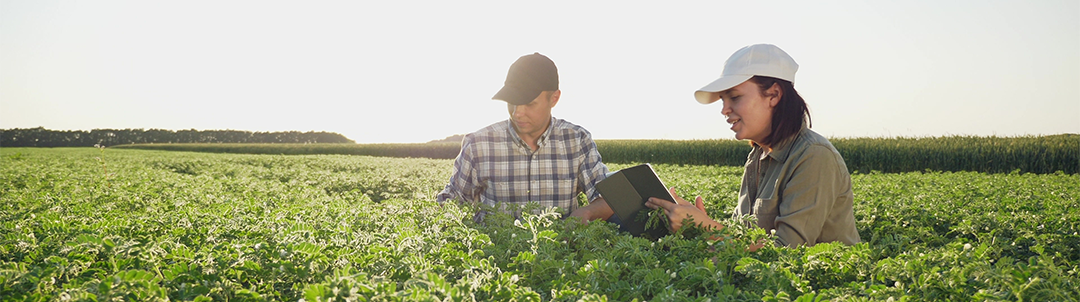
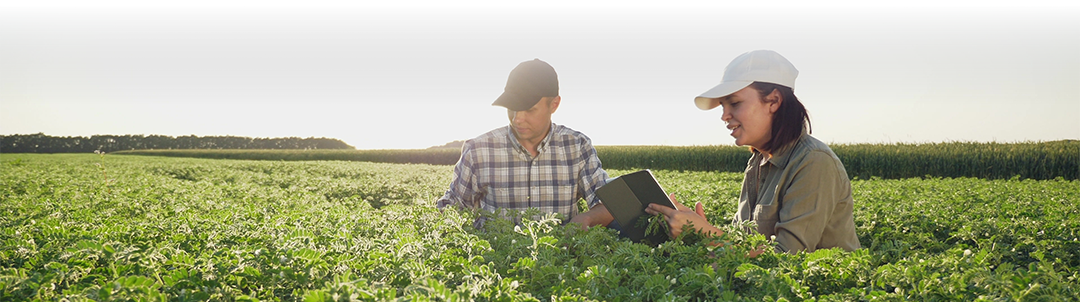
CIG-1731 508 issues resolved

diff --git a/src/containers/CustomSearchContainer/CustomSearch.tsx b/src/containers/CustomSearchContainer/CustomSearch.tsx
@@ -1,5 +1,5 @@
 import { useEffect, useState } from 'react';
-import  TagManager from 'react-gtm-module';
+import TagManager from 'react-gtm-module';
 import useBreakpoint from 'use-breakpoint';
 import { useTranslation } from 'react-i18next';
 import classNames from 'classnames';
@@ -29,7 +29,7 @@ import SearchByResourceConcern from '../../components/SearchByResourceConcern/Se
 import './custom-search.scss';
 import { currentState, initialState } from '../../Redux/Slice/stateSlice';
 
-const GTMArg = { gtmId: 'G-JXBFW848RQ' };  
+const GTMArg = { gtmId: 'G-JXBFW848RQ' };
 
 TagManager.initialize(GTMArg);
 
@@ -138,13 +138,13 @@ const CustomSearch = () => {
       dispatch(currentState(initialState));
     }
 
-    console.log(window.dataLayer);
-         window.dataLayer.push ( { 'js': new Date()});
-          window.dataLayer.push ( { event:'Search',
-              EventProps:{
-              SearchParameter: searchedInfo}
-              });
-          
+    window.dataLayer.push({ js: new Date() });
+    window.dataLayer.push({
+      event: 'Search',
+      EventProps: {
+        SearchParameter: searchedInfo,
+      },
+    });
   };
 
   const searchButtonStyles = () => {

diff --git a/src/components/QuickSearchBar/QuickSearchBar.tsx b/src/components/QuickSearchBar/QuickSearchBar.tsx
@@ -12,7 +12,7 @@ const QuickSearchBar = () => {
     history.push('search');
   };
 
-  const GTMArg = { gtmId: 'G-JXBFW848RQ' }; 
+  const GTMArg = { gtmId: 'G-JXBFW848RQ' };
   TagManager.initialize(GTMArg);
 
   return (
@@ -29,7 +29,15 @@ const QuickSearchBar = () => {
         </CustomButton>
       </div>
       <noscript>
-        <iframe title="ga4" src="https://www.googletagmanager.com/ns.html?id=G-JXBFW848RQ" height="0" width="0" style={ {display:'none',visibility:'hidden'}}> </iframe>
+        <iframe
+          title='ga4'
+          src='https://www.googletagmanager.com/ns.html?id=G-JXBFW848RQ'
+          height='0'
+          width='0'
+          style={{ display: 'none', visibility: 'hidden' }}
+        >
+          {' '}
+        </iframe>
       </noscript>
     </div>
   );

diff --git a/src/containers/Home/Home.tsx b/src/containers/Home/Home.tsx
@@ -20,7 +20,7 @@ const Home = () => {
     );
   };
 
-  const GTMArg = { gtmId: 'G-JXBFW848RQ'  };
+  const GTMArg = { gtmId: 'G-JXBFW848RQ' };
   TagManager.initialize(GTMArg);
 
   return (
@@ -33,7 +33,15 @@ const Home = () => {
       />
       {renderMainContent()}
       <noscript>
-        <iframe title="ga4" src="https://www.googletagmanager.com/ns.html?id=G-JXBFW848RQ" height="0" width="0" style={ {visibility:'hidden'}}> </iframe>
+        <iframe
+          title='ga4'
+          src='https://www.googletagmanager.com/ns.html?id=G-JXBFW848RQ'
+          height='0'
+          width='0'
+          style={{ visibility: 'hidden' }}
+        >
+          {' '}
+        </iframe>
       </noscript>
     </main>
   );

diff --git a/src/components/SpecificationsAndTools/SpecificationsAndTools.tsx b/src/components/SpecificationsAndTools/SpecificationsAndTools.tsx
@@ -46,11 +46,6 @@ const SpecificationsAndTools = ({
   );
 
   const content = useGetAssociatedPracticeQuery(userSelectedFilter);
-  const practiceLink =
-    selectedStateAbbr === 'U.S.' || selectedStateAbbr === undefined
-      ? practiceStandardGuideLink.viewStateConservationPracticeLink
-      : practiceStandardGuideLink.viewStateConservationPracticeLink +
-        selectedStateAbbr;
 
   const getHeaderText = () => {
     const practiceName = (data && data?.practiceName) || '';

diff --git a/src/containers/Home/home.scss b/src/containers/Home/home.scss
@@ -16,7 +16,8 @@
     margin-bottom: 0rem;
     position: relative;
     background-size: cover;
-    background-position: center;
+    background-position: center 20px;
+    background-color: white;
     min-height: 350px;
     height: auto;
     background-repeat: no-repeat;
@@ -24,7 +25,7 @@
 
     h1 {
       position: absolute;
-      top: 0.5em;
+      top: 1rem;
       font-weight: 900;
     }
   }

diff --git a/src/components/PracticeCard/practice-card.scss b/src/components/PracticeCard/practice-card.scss
@@ -13,10 +13,7 @@
     margin: 0 2.188rem 1.875rem 2.188rem;
 
     .list-box {
-      border-right: 2px solid $light-grey-5;
-      border-left: 2px solid $light-grey-5;
-      border-bottom: 2px solid $light-grey-5;
-      border-top: 6px solid $usda-blue;
+      @include colored-top-box;
       border-radius: 0.5em;
       text-align: left;
       background-color: $white;

diff --git a/src/stylesheets/_variables.scss b/src/stylesheets/_variables.scss
@@ -76,7 +76,7 @@ $alpha-large-space-size: 2.5rem;
 
 /** Mixins **/
 @mixin colored-top-box {
-  border: 0.0625rem solid $light-grey-6;
+  border: 0.0625rem solid $nrcs-dark;
   border-bottom-left-radius: 0.375rem;
   border-bottom-right-radius: 0.375rem;
   border-top: 0.3125rem solid $usda-blue;

diff --git a/src/components/SearchByConservationPractice/conservation-practice.scss b/src/components/SearchByConservationPractice/conservation-practice.scss
@@ -3,7 +3,7 @@
 .practice-box-wrapper {
   text-align: left;
   flex: 50%;
-  border: 2px solid $philippine-silver;
+  border: 1px solid $nrcs-dark;
   border-radius: 0.5em;
   background-color: $sfi-white;
   padding: 1.25rem 2rem 1.875rem 2rem;

diff --git a/src/components/SearchByResourceConcern/search-by-resource-concern.scss b/src/components/SearchByResourceConcern/search-by-resource-concern.scss
@@ -3,7 +3,7 @@
 .resource-box-wrapper {
   text-align: left;
   flex: 50%;
-  border: 2px solid $philippine-silver;
+  border: 1px solid $nrcs-dark;
   border-radius: 0.5em;
   background-color: $sfi-white;
   padding: 1.25rem 2rem 1.875rem 2rem;

diff --git a/src/components/ResourceConcernTreated/resource-concern-treated.scss b/src/components/ResourceConcernTreated/resource-concern-treated.scss
@@ -58,7 +58,7 @@
 
         .num-rc-count {
           font-weight: $medium-weight;
-          color: $dark-grey;
+          color: $black;
           padding-left: 3px;
         }
       }

diff --git a/src/containers/MapContainer/map-container.scss b/src/containers/MapContainer/map-container.scss
@@ -49,3 +49,7 @@
     margin: 1rem 0rem 0rem 0rem;
   }
 }
+
+.esri-ui-manual-container > .esri-component {
+  display: none;
+}
